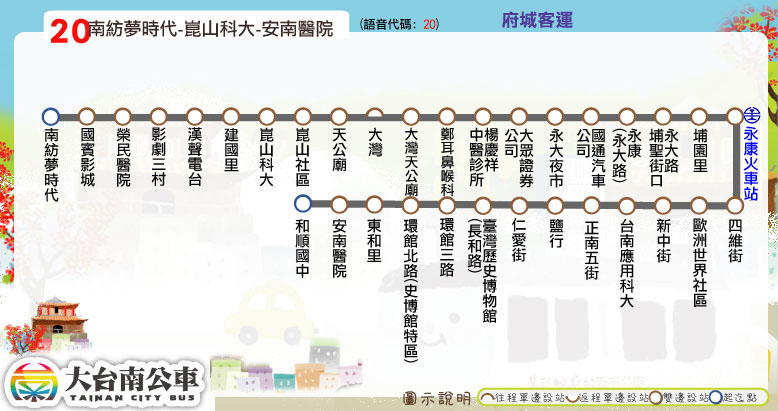
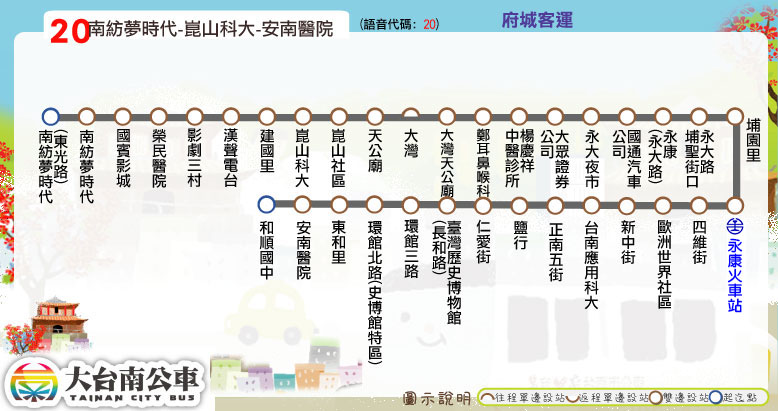
新增站點：20路 「南紡夢時代(東光路)」

Changed region(s): [[0.0308, 0.2628, 0.9254, 0.9051], [0.8946, 0.5255, 0.9563, 0.7591], [0.9563, 0.2628, 0.9871, 0.4964]]

diff --git a/route/fare_and_time/city_bus_20.js b/route/fare_and_time/city_bus_20.js
@@ -1,7 +1,7 @@
 // format = [time at the start stop] or
 // [time, other] or
 // [time, start_stop, end_stop, other]
-city_bus_20_main_stop_name = ["南紡<br />夢時代","崑山科大","永大夜市","永康<br />火車站","台南應用<br />科技大學","臺灣歷史<br />博物館","安南醫院","塭南里"];
+city_bus_20_main_stop_name = ["南紡夢時代<br />(東光路)","崑山科大","永大夜市","永康<br />火車站","台南應用<br />科技大學","臺灣歷史<br />博物館","安南醫院","塭南里"];
 city_bus_20_main_stop_time_consume = [0, 10, 17, 25, 35, 46, 50, 55];
 city_bus_20_important_stop = [0, 3, 5]; // 南紡夢時代, 永康火車站, 臺灣歷史博物館
 city_bus_20_time_go = [["06:00"],["06:20"],["06:40"],["07:10"],["07:40"],["08:00"],["08:30"],["09:00"],["09:45"],["10:30"],
